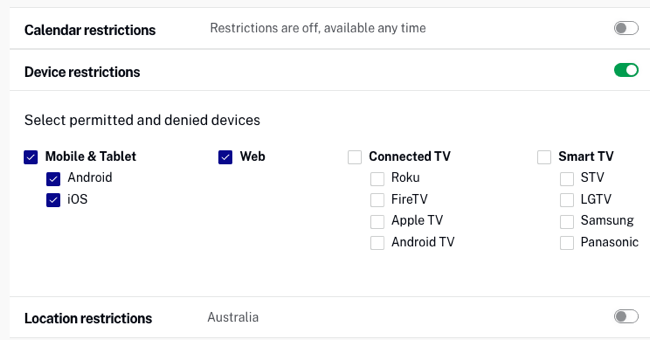
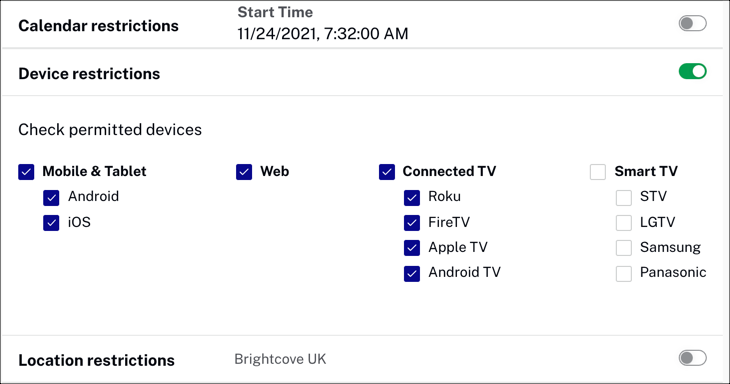
device restrictions

diff --git a/_site/layout/configuring-page-availability.html b/_site/layout/configuring-page-availability.html
@@ -1397,16 +1397,17 @@ function doGTranslate(lang_pair) {if(lang_pair.value)lang_pair=lang_pair.value;i
       <li>Open the <strong>Layout</strong> module.</li>
       <li>Click on the page name to edit. The page details will be displayed.</li>
       <li>To the right of <strong>Availability</strong>, click <img src="/assets/images/common/edit-pencil-on-page-blue.png" alt="edit icon">.
-        <figure class="bcls-figure"><img class="bcls-image--no-border" alt="" src="/assets/images/layout/availability-options.png" /></figure>
+        <figure class="bcls-figure">
+          <img class="bcls-image--no-border" alt="Edit availability" src="/assets/images/layout/availability-options.png" /></figure>
       </li>
       <li>The <strong>Page Settings</strong> dialog will open, where you can set availability for the page.
         <figure class="bcls-figure">
-          <img class="bcls-image" src="/assets/images/layout/page-settings-availability.png" alt="page settings">
+          <img class="bcls-image" src="/assets/images/layout/page-settings-availability.png" alt="Page settings">
         </figure>
       </li>
       <li>After you configure Availability settings, they will be displayed in the left margin.
         <figure class="bcls-figure">
-          <img class="bcls-image--no-border" alt="" src="/assets/images/layout/availability-configured.png" /></figure>
+          <img class="bcls-image--no-border" alt="Availability configured" src="/assets/images/layout/availability-configured.png" /></figure>
       </li>
       <!-- <li>Click <strong>Clear All Restrictions</strong> to remove all Availability settings.</li> -->
     </ol>
@@ -1416,33 +1417,38 @@ function doGTranslate(lang_pair) {if(lang_pair.value)lang_pair=lang_pair.value;i
     <h2 id="Configuring_calendar_restrictions">Configuring calendar restrictions</h2>
     <p>By default, when a page is created, it will always be available for viewing. Pages can be configured with calendar restrictions that define the start date and time that a page will be available for viewing. Optionally, you can also configure an end date and time. To configure a schedule for a page, follow these steps: </p>
     <ol class="bcls-tasklist-restart">
-      <li>Return to the <strong>Page Settings</strong> dialog.</li>
-      <li>In the <strong>Availability</strong> section, for <strong>Calendar restrictions</strong>, turn on the toggle. Calendar restriction settings will display.
-        <figure class="bcls-figure"><img class="bcls-image--no-border" alt="" src="/assets/images/layout/availability-schedule-dialog.png" /></figure>
+      <li>Return to the <strong>Page Settings</strong> dialog and the <strong>Availability</strong> section.</li>
+      <li>For <strong>Calendar restrictions</strong>, turn on the toggle. Calendar restriction settings will display.
+        <figure class="bcls-figure">
+          <img class="bcls-image--no-border" alt="Calendar restrictions" src="/assets/images/layout/availability-schedule-dialog.png" /></figure>
       </li>
       <li>Click the calendar icon (<img class="bcls-image--no-border" alt="" src="/assets/images/layout/icon-calendar.png" />) and pick a start date.
-        <figure class="bcls-figure"><img class="bcls-image--no-border" alt="" src="/assets/images/layout/availability-start-date.png" /></figure>
+        <figure class="bcls-figure">
+          <img class="bcls-image--no-border" alt="Start date" src="/assets/images/layout/availability-start-date.png" /></figure>
       </li>
       <li>Click the clock icon (<img class="bcls-image--no-border" alt="" src="/assets/images/layout/icon-clock.png" />) and pick a start time.
-        <figure class="bcls-figure"><img class="bcls-image--no-border" alt="" src="/assets/images/layout/availability-start-time.png" /></figure>
+        <figure class="bcls-figure">
+          <img class="bcls-image--no-border" alt="Start time" src="/assets/images/layout/availability-start-time.png" /></figure>
       </li>
       <li>(Optional) Check the <strong>End Date</strong> checkbox and select an end date and time.
-        <figure class="bcls-figure"><img class="bcls-image--no-border" alt="" src="/assets/images/layout/availability-end-date.png" /></figure>
+        <figure class="bcls-figure">
+          <img class="bcls-image--no-border" alt="End date" src="/assets/images/layout/availability-end-date.png" /></figure>
       </li>
       <li>After you schedule a published page to be available for a future date, the page status label will display <strong>Scheduled</strong>.
         <figure class="bcls-figure">
-          <img class="bcls-image" src="/assets/images/layout/scheduled-page.png" alt="scheduled page">
+          <img class="bcls-image" src="/assets/images/layout/scheduled-page.png" alt="Scheduled status">
         </figure>
       </li>
     </ol>
   </section>
 
   <section class="bcls-section">
-    <h2 id="devices">Configuring device availability</h2>
+    <h2 id="Configuring_device_restrictions">Configuring device restrictions</h2>
     <p>By default, when a page is created, it will be available for viewing on all devices. Pages can be configured so they can only be viewed on specific devices. To configure the devices a page can be viewed on, follow these steps: </p>
     <ol class="bcls-tasklist-restart">
-      <li>In the <strong>Availability</strong> section, click on <strong>Devices</strong>. The device settings will display.
-        <figure class="bcls-figure"><img class="bcls-image--no-border" alt="" src="/assets/images/layout/availability-devices-dialog.png" /></figure>
+      <li>Return to the <strong>Page Settings</strong> dialog and the <strong>Availability</strong> section.</li>
+      <li>For <strong>Device restrictions</strong>, turn on the toggle. Device restriction settings will display.
+        <figure class="bcls-figure"><img class="bcls-image--no-border" alt="Device restrictions" src="/assets/images/layout/availability-devices-dialog.png" /></figure>
       </li>
       <li>Select/Unselect the devices that can view the page.</li>
     </ol>

diff --git a/layout/configuring-page-availability.html b/layout/configuring-page-availability.html
@@ -20,16 +20,17 @@ parent: Managing Pages
       <li>Open the <strong>Layout</strong> module.</li>
       <li>Click on the page name to edit. The page details will be displayed.</li>
       <li>To the right of <strong>Availability</strong>, click <img src="/assets/images/common/edit-pencil-on-page-blue.png" alt="edit icon">.
-        <figure class="bcls-figure"><img class="bcls-image--no-border" alt="" src="/assets/images/layout/availability-options.png" /></figure>
+        <figure class="bcls-figure">
+          <img class="bcls-image--no-border" alt="Edit availability" src="/assets/images/layout/availability-options.png" /></figure>
       </li>
       <li>The <strong>Page Settings</strong> dialog will open, where you can set availability for the page.
         <figure class="bcls-figure">
-          <img class="bcls-image" src="/assets/images/layout/page-settings-availability.png" alt="page settings">
+          <img class="bcls-image" src="/assets/images/layout/page-settings-availability.png" alt="Page settings">
         </figure>
       </li>
       <li>After you configure Availability settings, they will be displayed in the left margin.
         <figure class="bcls-figure">
-          <img class="bcls-image--no-border" alt="" src="/assets/images/layout/availability-configured.png" /></figure>
+          <img class="bcls-image--no-border" alt="Availability configured" src="/assets/images/layout/availability-configured.png" /></figure>
       </li>
       <!-- <li>Click <strong>Clear All Restrictions</strong> to remove all Availability settings.</li> -->
     </ol>
@@ -39,33 +40,38 @@ parent: Managing Pages
     <h2 id="Configuring_calendar_restrictions">Configuring calendar restrictions</h2>
     <p>By default, when a page is created, it will always be available for viewing. Pages can be configured with calendar restrictions that define the start date and time that a page will be available for viewing. Optionally, you can also configure an end date and time. To configure a schedule for a page, follow these steps: </p>
     <ol class="bcls-tasklist-restart">
-      <li>Return to the <strong>Page Settings</strong> dialog.</li>
-      <li>In the <strong>Availability</strong> section, for <strong>Calendar restrictions</strong>, turn on the toggle. Calendar restriction settings will display.
-        <figure class="bcls-figure"><img class="bcls-image--no-border" alt="" src="/assets/images/layout/availability-schedule-dialog.png" /></figure>
+      <li>Return to the <strong>Page Settings</strong> dialog and the <strong>Availability</strong> section.</li>
+      <li>For <strong>Calendar restrictions</strong>, turn on the toggle. Calendar restriction settings will display.
+        <figure class="bcls-figure">
+          <img class="bcls-image--no-border" alt="Calendar restrictions" src="/assets/images/layout/availability-schedule-dialog.png" /></figure>
       </li>
       <li>Click the calendar icon (<img class="bcls-image--no-border" alt="" src="/assets/images/layout/icon-calendar.png" />) and pick a start date.
-        <figure class="bcls-figure"><img class="bcls-image--no-border" alt="" src="/assets/images/layout/availability-start-date.png" /></figure>
+        <figure class="bcls-figure">
+          <img class="bcls-image--no-border" alt="Start date" src="/assets/images/layout/availability-start-date.png" /></figure>
       </li>
       <li>Click the clock icon (<img class="bcls-image--no-border" alt="" src="/assets/images/layout/icon-clock.png" />) and pick a start time.
-        <figure class="bcls-figure"><img class="bcls-image--no-border" alt="" src="/assets/images/layout/availability-start-time.png" /></figure>
+        <figure class="bcls-figure">
+          <img class="bcls-image--no-border" alt="Start time" src="/assets/images/layout/availability-start-time.png" /></figure>
       </li>
       <li>(Optional) Check the <strong>End Date</strong> checkbox and select an end date and time.
-        <figure class="bcls-figure"><img class="bcls-image--no-border" alt="" src="/assets/images/layout/availability-end-date.png" /></figure>
+        <figure class="bcls-figure">
+          <img class="bcls-image--no-border" alt="End date" src="/assets/images/layout/availability-end-date.png" /></figure>
       </li>
       <li>After you schedule a published page to be available for a future date, the page status label will display <strong>Scheduled</strong>.
         <figure class="bcls-figure">
-          <img class="bcls-image" src="/assets/images/layout/scheduled-page.png" alt="scheduled page">
+          <img class="bcls-image" src="/assets/images/layout/scheduled-page.png" alt="Scheduled status">
         </figure>
       </li>
     </ol>
   </section>
 
   <section class="bcls-section">
-    <h2 id="devices">Configuring device availability</h2>
+    <h2 id="Configuring_device_restrictions">Configuring device restrictions</h2>
     <p>By default, when a page is created, it will be available for viewing on all devices. Pages can be configured so they can only be viewed on specific devices. To configure the devices a page can be viewed on, follow these steps: </p>
     <ol class="bcls-tasklist-restart">
-      <li>In the <strong>Availability</strong> section, click on <strong>Devices</strong>. The device settings will display.
-        <figure class="bcls-figure"><img class="bcls-image--no-border" alt="" src="/assets/images/layout/availability-devices-dialog.png" /></figure>
+      <li>Return to the <strong>Page Settings</strong> dialog and the <strong>Availability</strong> section.</li>
+      <li>For <strong>Device restrictions</strong>, turn on the toggle. Device restriction settings will display.
+        <figure class="bcls-figure"><img class="bcls-image--no-border" alt="Device restrictions" src="/assets/images/layout/availability-devices-dialog.png" /></figure>
       </li>
       <li>Select/Unselect the devices that can view the page.</li>
     </ol>
